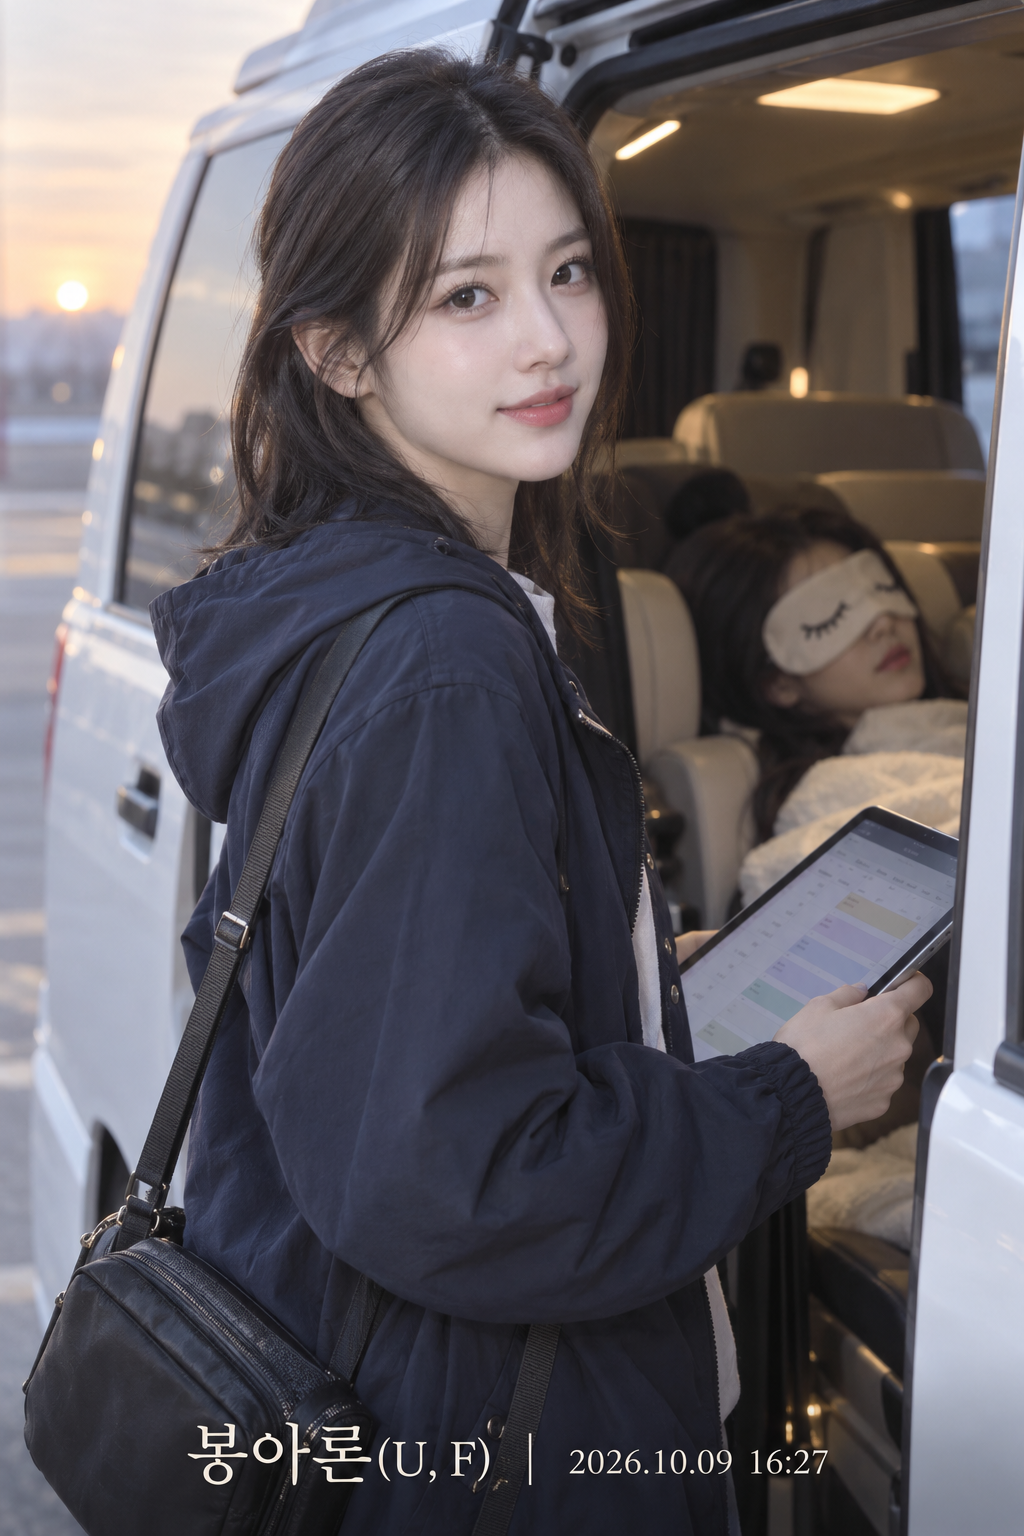
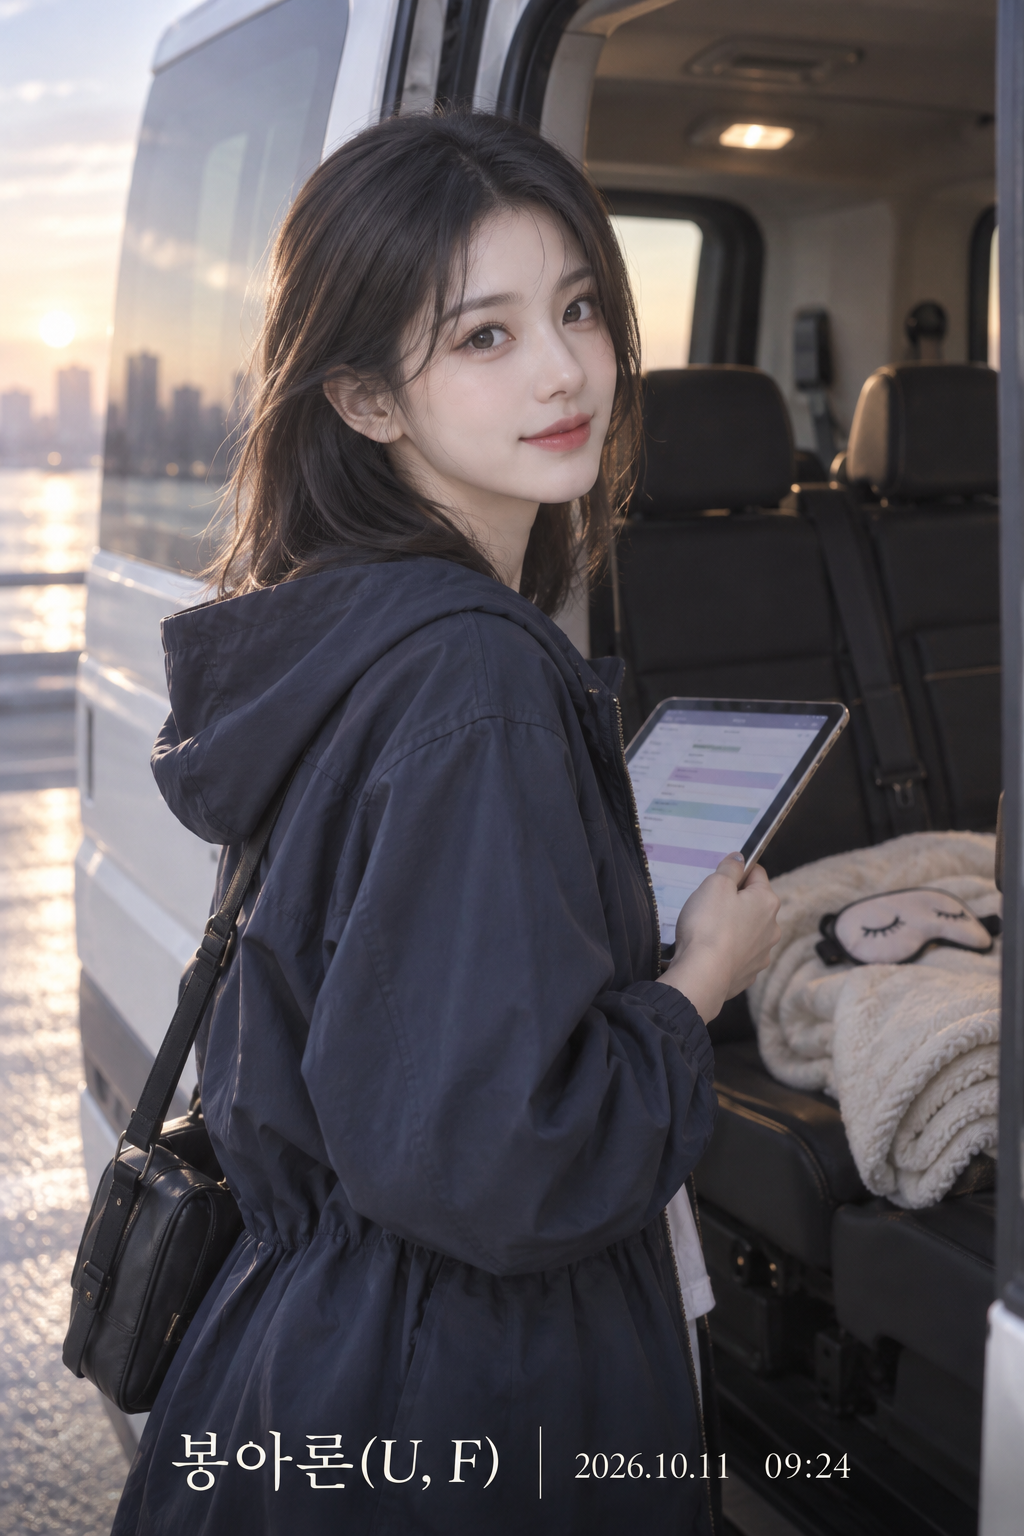
배세훈 프로필 이미지 3장 추가, 봉아론 유저 이미지 2장 교체

diff --git a/zeta/image-prompt-changelog.md b/zeta/image-prompt-changelog.md
@@ -13,7 +13,7 @@
 
 | 날짜 | 작품 | 바뀐 프롬프트 | 바뀐 내용 | 이미지 있었나 | 처리 |
 |---|---|---|---|---|---|
-| 2026-10-10 | 봉아론 | 남성용·여성용(긴·짧은 버전) | 사용자 지적: 유저 이미지 뒷좌석에 잠든 사람 실루엣이 그려짐. '잠든 아이돌 실루엣을 바라본다' 구절을 '빈 뒷좌석의 개어 둔 담요와 눈 그림 안대, 화면에 다른 사람 없음'으로 바꿈. 한글 설명도 맞춤 | 있음 (bong-aron-user-m/f) | 재생성 필요 — 다시 만든 뒤 register.py로 재등록 |
+| 2026-10-10 | 봉아론 | 남성용·여성용(긴·짧은 버전) | 사용자 지적: 유저 이미지 뒷좌석에 잠든 사람 실루엣이 그려짐. '잠든 아이돌 실루엣을 바라본다' 구절을 '빈 뒷좌석의 개어 둔 담요와 눈 그림 안대, 화면에 다른 사람 없음'으로 바꿈. 한글 설명도 맞춤 | 있음 (bong-aron-user-m/f) | 교체 완료 (2026-10-11) — 빈 뒷좌석·담요·눈 그림 안대로 재생성(v2)해 등록, 지문 일치 |
 | 2026-10-11 | 안지섭·하그루·강루하·곽늘봄·남형우·허명헌·금석주 | 주인공·남성용·여성용 (사원증) | 근무처 맵(`zeta-workplace-map.md`)에 따라 회사 마크를 사원증에 적용: 안지섭 바구니마켓, 하그루 온결전자, 강루하 다락 스튜디오, 곽늘봄 담백푸드, 남형우·금석주 법무법인 청솔, 허명헌 청솔 회계법인. 유저 이미지는 `{{user}}` 소속 기준(금석주는 유저 이미지만) | 있음 (21장 모두 마크 없이 생성: 주인공 6, 유저 14, 안지섭×하그루 카메오 1) | 재생성 확인 대기 |
 | 2026-10-09 | 진해원 | 주인공·남성용·여성용(긴·짧은 버전) | 사용자 지시로 배경을 대그룹으로 올리면서 직업(제과회사 임원 → 대그룹 전략기획실 상무)·장소(아파트 주방 → 펜트하우스 전면 창) 구절과 조명 문장을 바꿈 | 없음 (이미지 생성 전) | 재생성 불필요 (이미지 없음) |
 | 2026-10-09 | 배요한 | 주인공 | 머리색 변주를 되돌림: 애쉬 카키 → 원래의 검은 머리. 사용자가 새 색으로 만들어 보고 원래 쪽이 더 낫다고 판단 | 원래 주인공 이미지로 복원, 프롬프트와 일치 | 재생성 불필요 (애쉬 카키 버전은 원본 폴더 _old/에 보관) |
